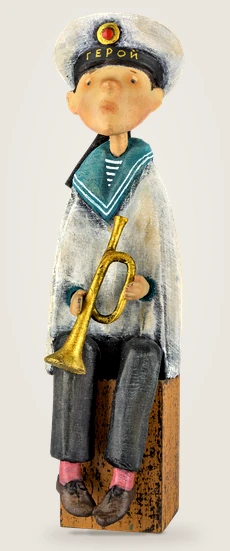
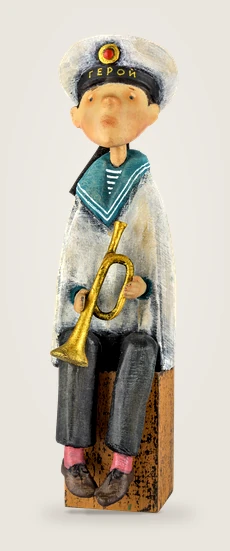
Moryak home/recent images: same physical scale as the rest of the series (was ~8% larger)
Claude-Session: https://claude.ai/code/session_01Lw3qeaGvaijTE9ayzDgyHh

diff --git a/index.html b/index.html
@@ -433,16 +433,16 @@ body,.collection-section,.buyers-note,.footer{background:var(--paper)}
       <div class="container">
         <div class="section-heading collection-heading"><h2>Герои коллекции</h2></div>
         <div class="collection-grid">
-          <a class="collection-slot collection-slot-live" data-figurine="piero" href="piero.html"><div class="collection-slot-image"><img src="assets/piero/studio-home.webp?v=20261024-studio" alt="Пьеро" loading="lazy"></div><span class="collection-slot-name">Пьеро</span></a>
-          <a class="collection-slot collection-slot-live" data-figurine="moryak" href="moryak.html"><div class="collection-slot-image"><img src="assets/moryak/studio-home.webp?v=20261024-studio" alt="Моряк" loading="lazy"></div><span class="collection-slot-name">Моряк</span></a>
-          <a class="collection-slot collection-slot-live" data-figurine="unicorn" href="unicorn.html"><div class="collection-slot-image"><img src="assets/unicorn/studio-home.webp?v=20261024-studio" alt="Девочка с единорогом" loading="lazy"></div><span class="collection-slot-name">Девочка с единорогом</span></a>
-          <a class="collection-slot collection-slot-live" data-figurine="horse" href="horse.html"><div class="collection-slot-image"><img src="assets/horse/studio-home.webp?v=20261024-studio" alt="Мальчик с лошадкой" loading="lazy"></div><span class="collection-slot-name">Мальчик с лошадкой</span></a>
-          <a class="collection-slot collection-slot-live" data-figurine="teddy" href="teddy.html"><div class="collection-slot-image"><img src="assets/teddy/studio-home.webp?v=20261024-studio" alt="Мальчик с мишкой" loading="lazy"></div><span class="collection-slot-name">Мальчик с мишкой</span></a>
-          <a class="collection-slot collection-slot-live" data-figurine="angel" href="angel.html"><div class="collection-slot-image"><img src="assets/angel/studio-home.webp?v=20261024-studio" alt="Ангел с дудочкой" loading="lazy"></div><span class="collection-slot-name">Ангел с дудочкой</span></a>
-          <a class="collection-slot collection-slot-live" data-figurine="kolombina" href="kolombina.html"><div class="collection-slot-image"><img src="assets/kolombina/studio-home.webp?v=20261024-studio" alt="Коломбина" loading="lazy"></div><span class="collection-slot-name">Коломбина</span></a>
-          <a class="collection-slot collection-slot-live" data-figurine="snezhinka" href="snezhinka.html"><div class="collection-slot-image"><img src="assets/snezhinka/studio-home.webp?v=20261024-studio" alt="Снежинка" loading="lazy"></div><span class="collection-slot-name">Снежинка</span></a>
-          <a class="collection-slot collection-slot-live" data-figurine="angel-svirel" href="angel-svirel.html"><div class="collection-slot-image"><img src="assets/angel-svirel/studio-home.webp?v=20261024-studio" alt="Ангел со свирелью" loading="lazy"></div><span class="collection-slot-name">Ангел со свирелью</span></a>
-          <a class="collection-slot collection-slot-live" data-figurine="zaychik" href="zaychik.html"><div class="collection-slot-image"><img src="assets/zaychik/studio-home.webp?v=20261024-studio" alt="Зайчик" loading="lazy"></div><span class="collection-slot-name">Зайчик</span></a>
+          <a class="collection-slot collection-slot-live" data-figurine="piero" href="piero.html"><div class="collection-slot-image"><img src="assets/piero/studio-home.webp?v=20261024-size" alt="Пьеро" loading="lazy"></div><span class="collection-slot-name">Пьеро</span></a>
+          <a class="collection-slot collection-slot-live" data-figurine="moryak" href="moryak.html"><div class="collection-slot-image"><img src="assets/moryak/studio-home.webp?v=20261024-size" alt="Моряк" loading="lazy"></div><span class="collection-slot-name">Моряк</span></a>
+          <a class="collection-slot collection-slot-live" data-figurine="unicorn" href="unicorn.html"><div class="collection-slot-image"><img src="assets/unicorn/studio-home.webp?v=20261024-size" alt="Девочка с единорогом" loading="lazy"></div><span class="collection-slot-name">Девочка с единорогом</span></a>
+          <a class="collection-slot collection-slot-live" data-figurine="horse" href="horse.html"><div class="collection-slot-image"><img src="assets/horse/studio-home.webp?v=20261024-size" alt="Мальчик с лошадкой" loading="lazy"></div><span class="collection-slot-name">Мальчик с лошадкой</span></a>
+          <a class="collection-slot collection-slot-live" data-figurine="teddy" href="teddy.html"><div class="collection-slot-image"><img src="assets/teddy/studio-home.webp?v=20261024-size" alt="Мальчик с мишкой" loading="lazy"></div><span class="collection-slot-name">Мальчик с мишкой</span></a>
+          <a class="collection-slot collection-slot-live" data-figurine="angel" href="angel.html"><div class="collection-slot-image"><img src="assets/angel/studio-home.webp?v=20261024-size" alt="Ангел с дудочкой" loading="lazy"></div><span class="collection-slot-name">Ангел с дудочкой</span></a>
+          <a class="collection-slot collection-slot-live" data-figurine="kolombina" href="kolombina.html"><div class="collection-slot-image"><img src="assets/kolombina/studio-home.webp?v=20261024-size" alt="Коломбина" loading="lazy"></div><span class="collection-slot-name">Коломбина</span></a>
+          <a class="collection-slot collection-slot-live" data-figurine="snezhinka" href="snezhinka.html"><div class="collection-slot-image"><img src="assets/snezhinka/studio-home.webp?v=20261024-size" alt="Снежинка" loading="lazy"></div><span class="collection-slot-name">Снежинка</span></a>
+          <a class="collection-slot collection-slot-live" data-figurine="angel-svirel" href="angel-svirel.html"><div class="collection-slot-image"><img src="assets/angel-svirel/studio-home.webp?v=20261024-size" alt="Ангел со свирелью" loading="lazy"></div><span class="collection-slot-name">Ангел со свирелью</span></a>
+          <a class="collection-slot collection-slot-live" data-figurine="zaychik" href="zaychik.html"><div class="collection-slot-image"><img src="assets/zaychik/studio-home.webp?v=20261024-size" alt="Зайчик" loading="lazy"></div><span class="collection-slot-name">Зайчик</span></a>
           <div class="collection-editorial" aria-label="О коллекции"><p class="collection-editorial-lead">Эти дети всё ещё безоговорочно верят в чудо.</p><p>Дом пахнет ёлкой и мандаринами, родители молоды, а впереди целая жизнь.</p><p>Можно стать моряком, лётчиком, врачом. Кем захочешь.</p></div>
         </div>
       </div>
